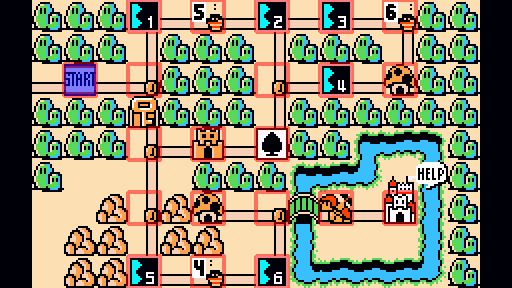
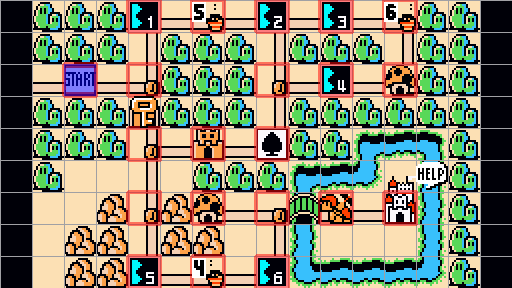
make grid togglable for WorldView

diff --git a/foundry/gui/WorldDrawer.py b/foundry/gui/WorldDrawer.py
@@ -10,6 +10,7 @@ from smb3parse.levels import FIRST_VALID_ROW, WORLD_MAP_HEIGHT, WORLD_MAP_SCREEN
 
 class WorldDrawer:
     def __init__(self):
+        self.draw_grid = False
         self.draw_level_pointers = True
         self.draw_sprites = True
         self.draw_start = True
@@ -31,6 +32,9 @@ class WorldDrawer:
 
         self._draw_tiles(painter, world)
 
+        if self.draw_grid:
+            self._draw_grid(painter, world)
+
         if self.draw_level_pointers:
             self._draw_level_pointers(painter, world)
 
@@ -50,12 +54,6 @@ class WorldDrawer:
 
         painter.restore()
 
-        painter.save()
-
-        self._draw_grid(painter, world)
-
-        painter.restore()
-
     def _draw_background(self, painter: QPainter, world: WorldMap):
         bg_color = Qt.black
 
@@ -68,6 +66,7 @@ class WorldDrawer:
         map_length = WORLD_MAP_SCREEN_WIDTH * self.block_length * world.data.screen_count
 
         for y in range(WORLD_MAP_HEIGHT):
+            y += FIRST_VALID_ROW
             y *= self.block_length
 
             painter.drawLine(QPoint(0, y), QPoint(map_length, y))
@@ -76,7 +75,7 @@ class WorldDrawer:
         for x in range(WORLD_MAP_SCREEN_WIDTH * world.data.screen_count):
             x *= self.block_length
 
-            painter.drawLine(QPoint(x, 0), QPoint(x, WORLD_MAP_SCREEN_WIDTH * self.block_length))
+            painter.drawLine(QPoint(x, 0), QPoint(x, (WORLD_MAP_HEIGHT + FIRST_VALID_ROW) * self.block_length))
 
     def _draw_tiles(self, painter: QPainter, world: WorldMap):
         not_selected, selected = partition(lambda tile_: tile_.selected, world.get_all_objects())

diff --git a/scribe/gui/main_window.py b/scribe/gui/main_window.py
@@ -74,6 +74,12 @@ class MainWindow(QMainWindow):
         self.view_menu = QMenu("View")
         self.view_menu.triggered.connect(self.on_view_menu)
 
+        self.grid_action = self.view_menu.addAction("Show Grid")
+        self.grid_action.setCheckable(True)
+        self.grid_action.setChecked(self.world_view.draw_grid)
+
+        self.view_menu.addSeparator()
+
         self.level_pointer_action = self.view_menu.addAction("Show Level Pointers")
         self.level_pointer_action.setCheckable(True)
         self.level_pointer_action.setChecked(self.world_view.draw_level_pointers)
@@ -191,7 +197,9 @@ class MainWindow(QMainWindow):
         self.world_view.update()
 
     def on_view_menu(self, action: QAction):
-        if action is self.level_pointer_action:
+        if action is self.grid_action:
+            self.world_view.draw_grid = action.isChecked()
+        elif action is self.level_pointer_action:
             self.world_view.draw_level_pointers = action.isChecked()
         elif action is self.sprite_action:
             self.world_view.draw_sprites = action.isChecked()

diff --git a/foundry/gui/WorldView.py b/foundry/gui/WorldView.py
@@ -76,6 +76,14 @@ class WorldView(MainView):
         )
 
     @property
+    def draw_grid(self):
+        return self.drawer.draw_grid
+
+    @draw_grid.setter
+    def draw_grid(self, value):
+        self.drawer.draw_grid = value
+
+    @property
     def draw_level_pointers(self):
         return self.drawer.draw_level_pointers
 

diff --git a/foundry/game/level/test_level_drawing.py b/foundry/game/level/test_level_drawing.py
@@ -81,6 +81,7 @@ def test_world(world_info, qtbot):
     world_view = WorldView(None, level_ref, WorldContextMenu(level_ref))
     world_view.zoom_in()
 
+    world_view.draw_grid = True
     world_view.draw_sprites = True
     world_view.draw_level_pointers = True
     world_view.draw_airship_points = True
